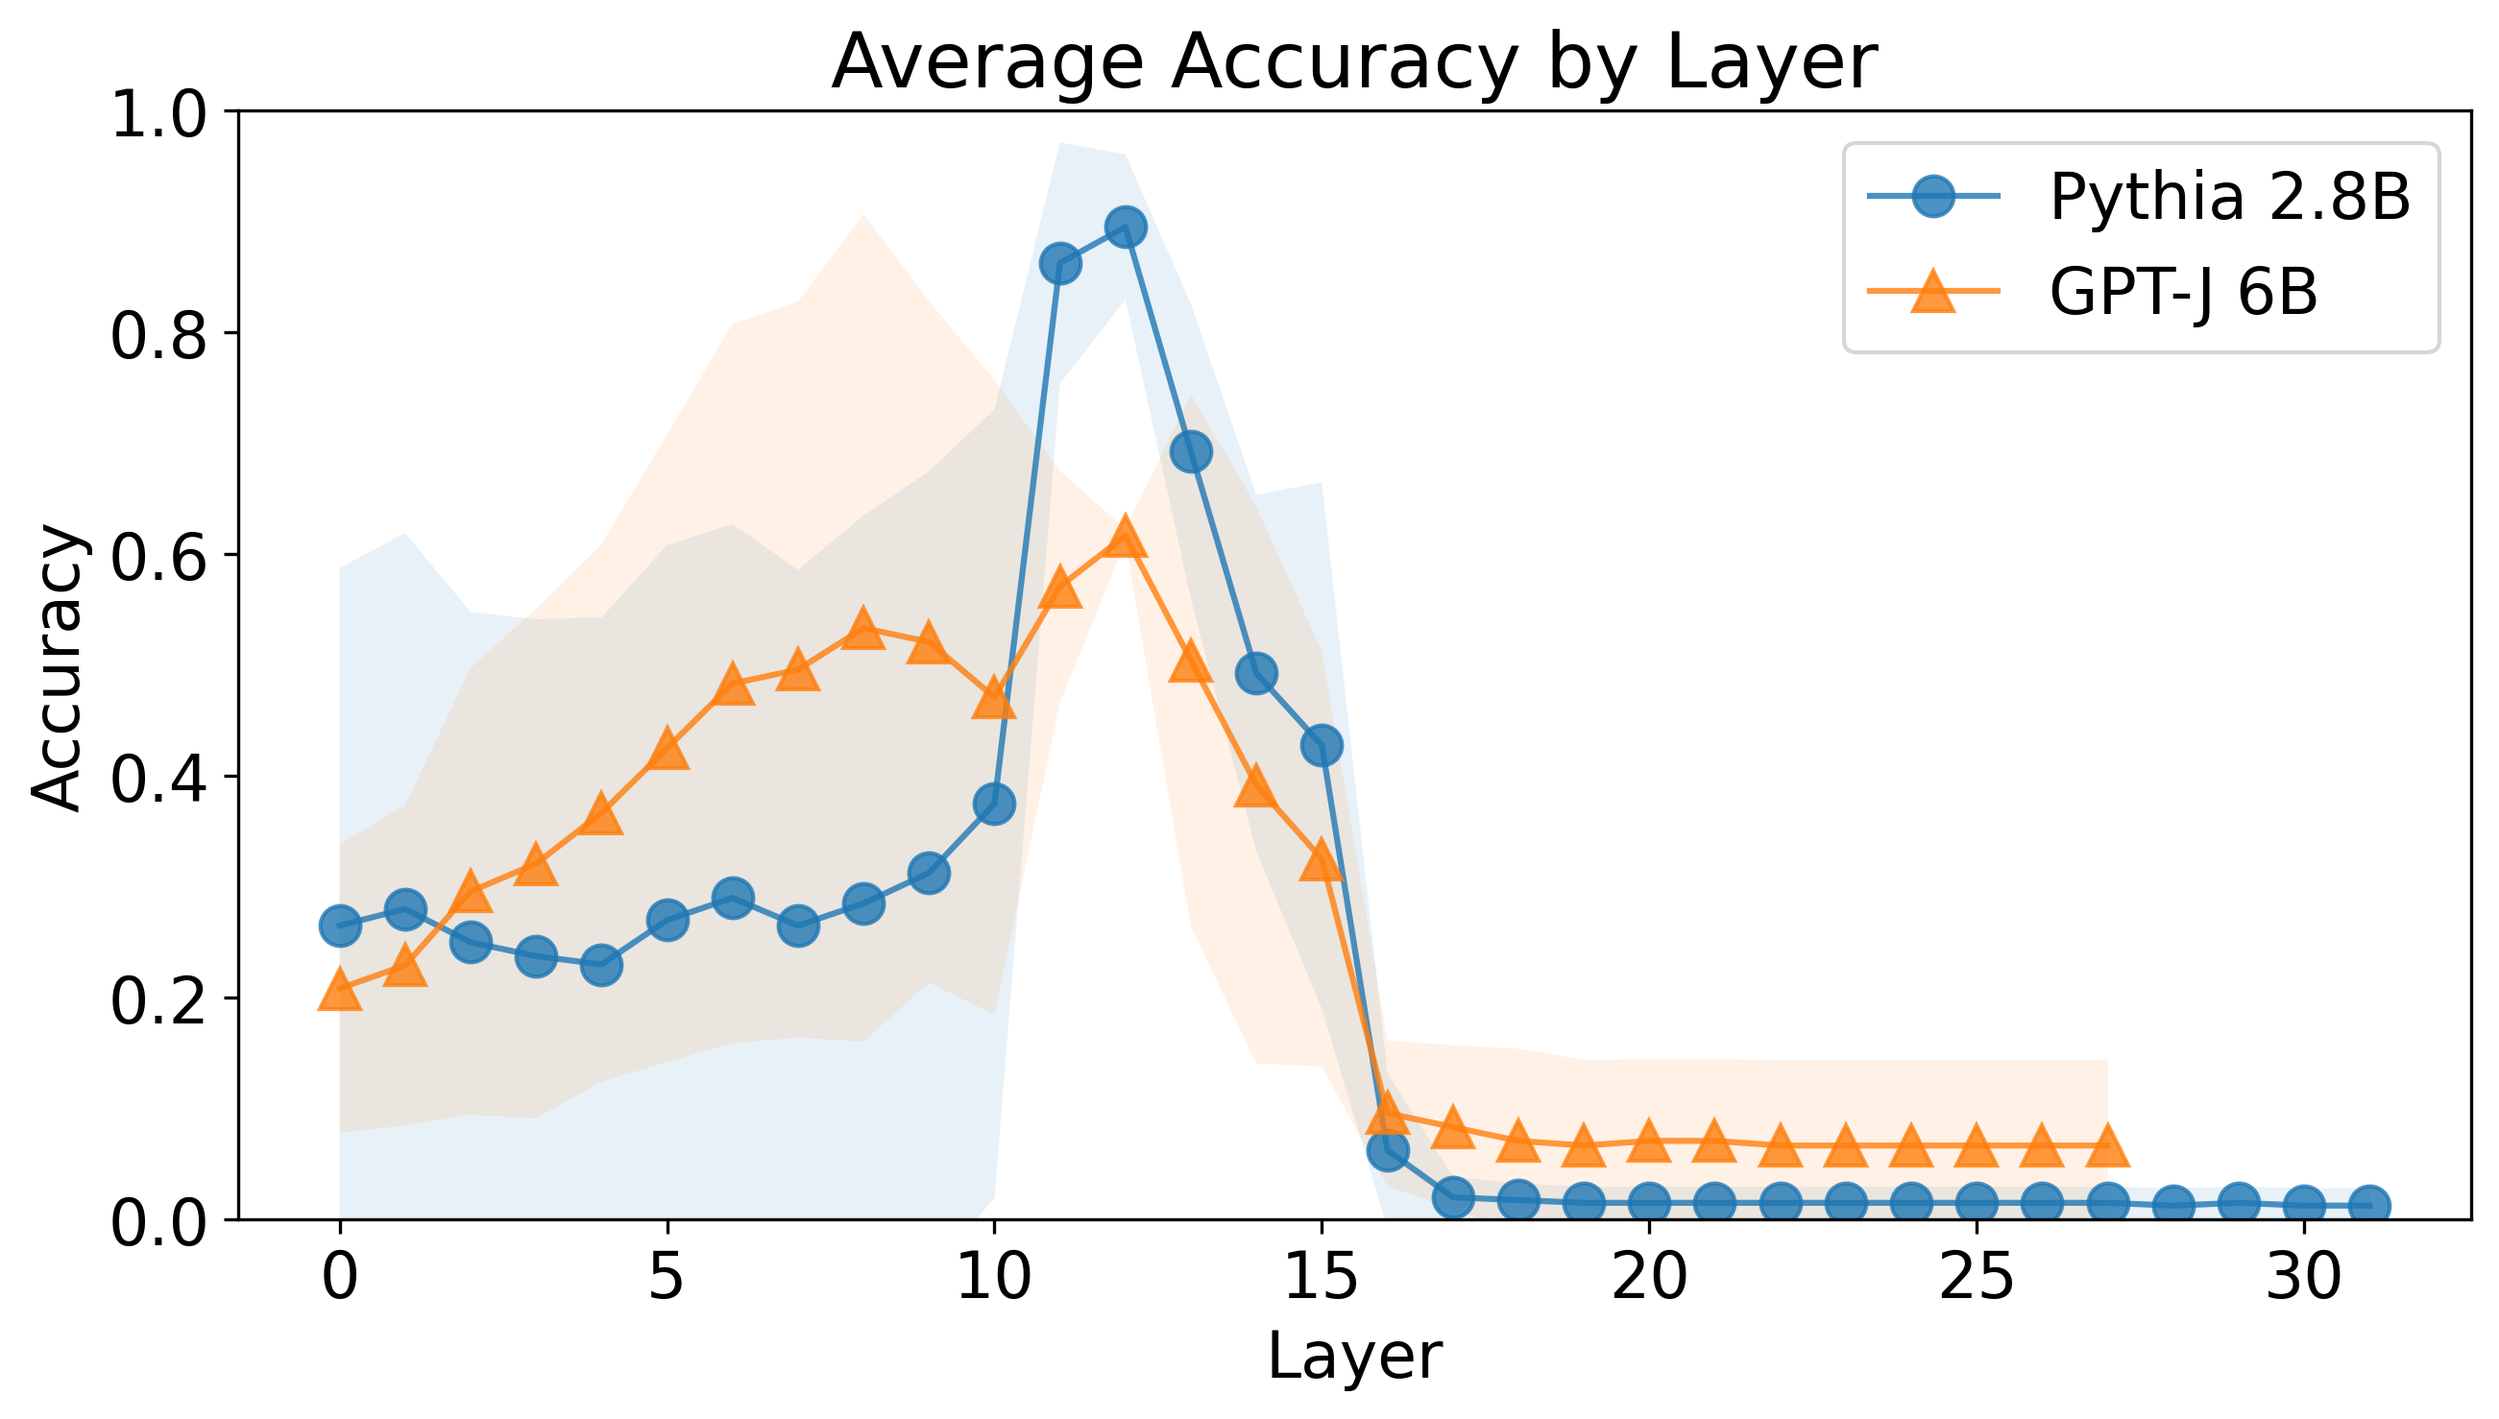
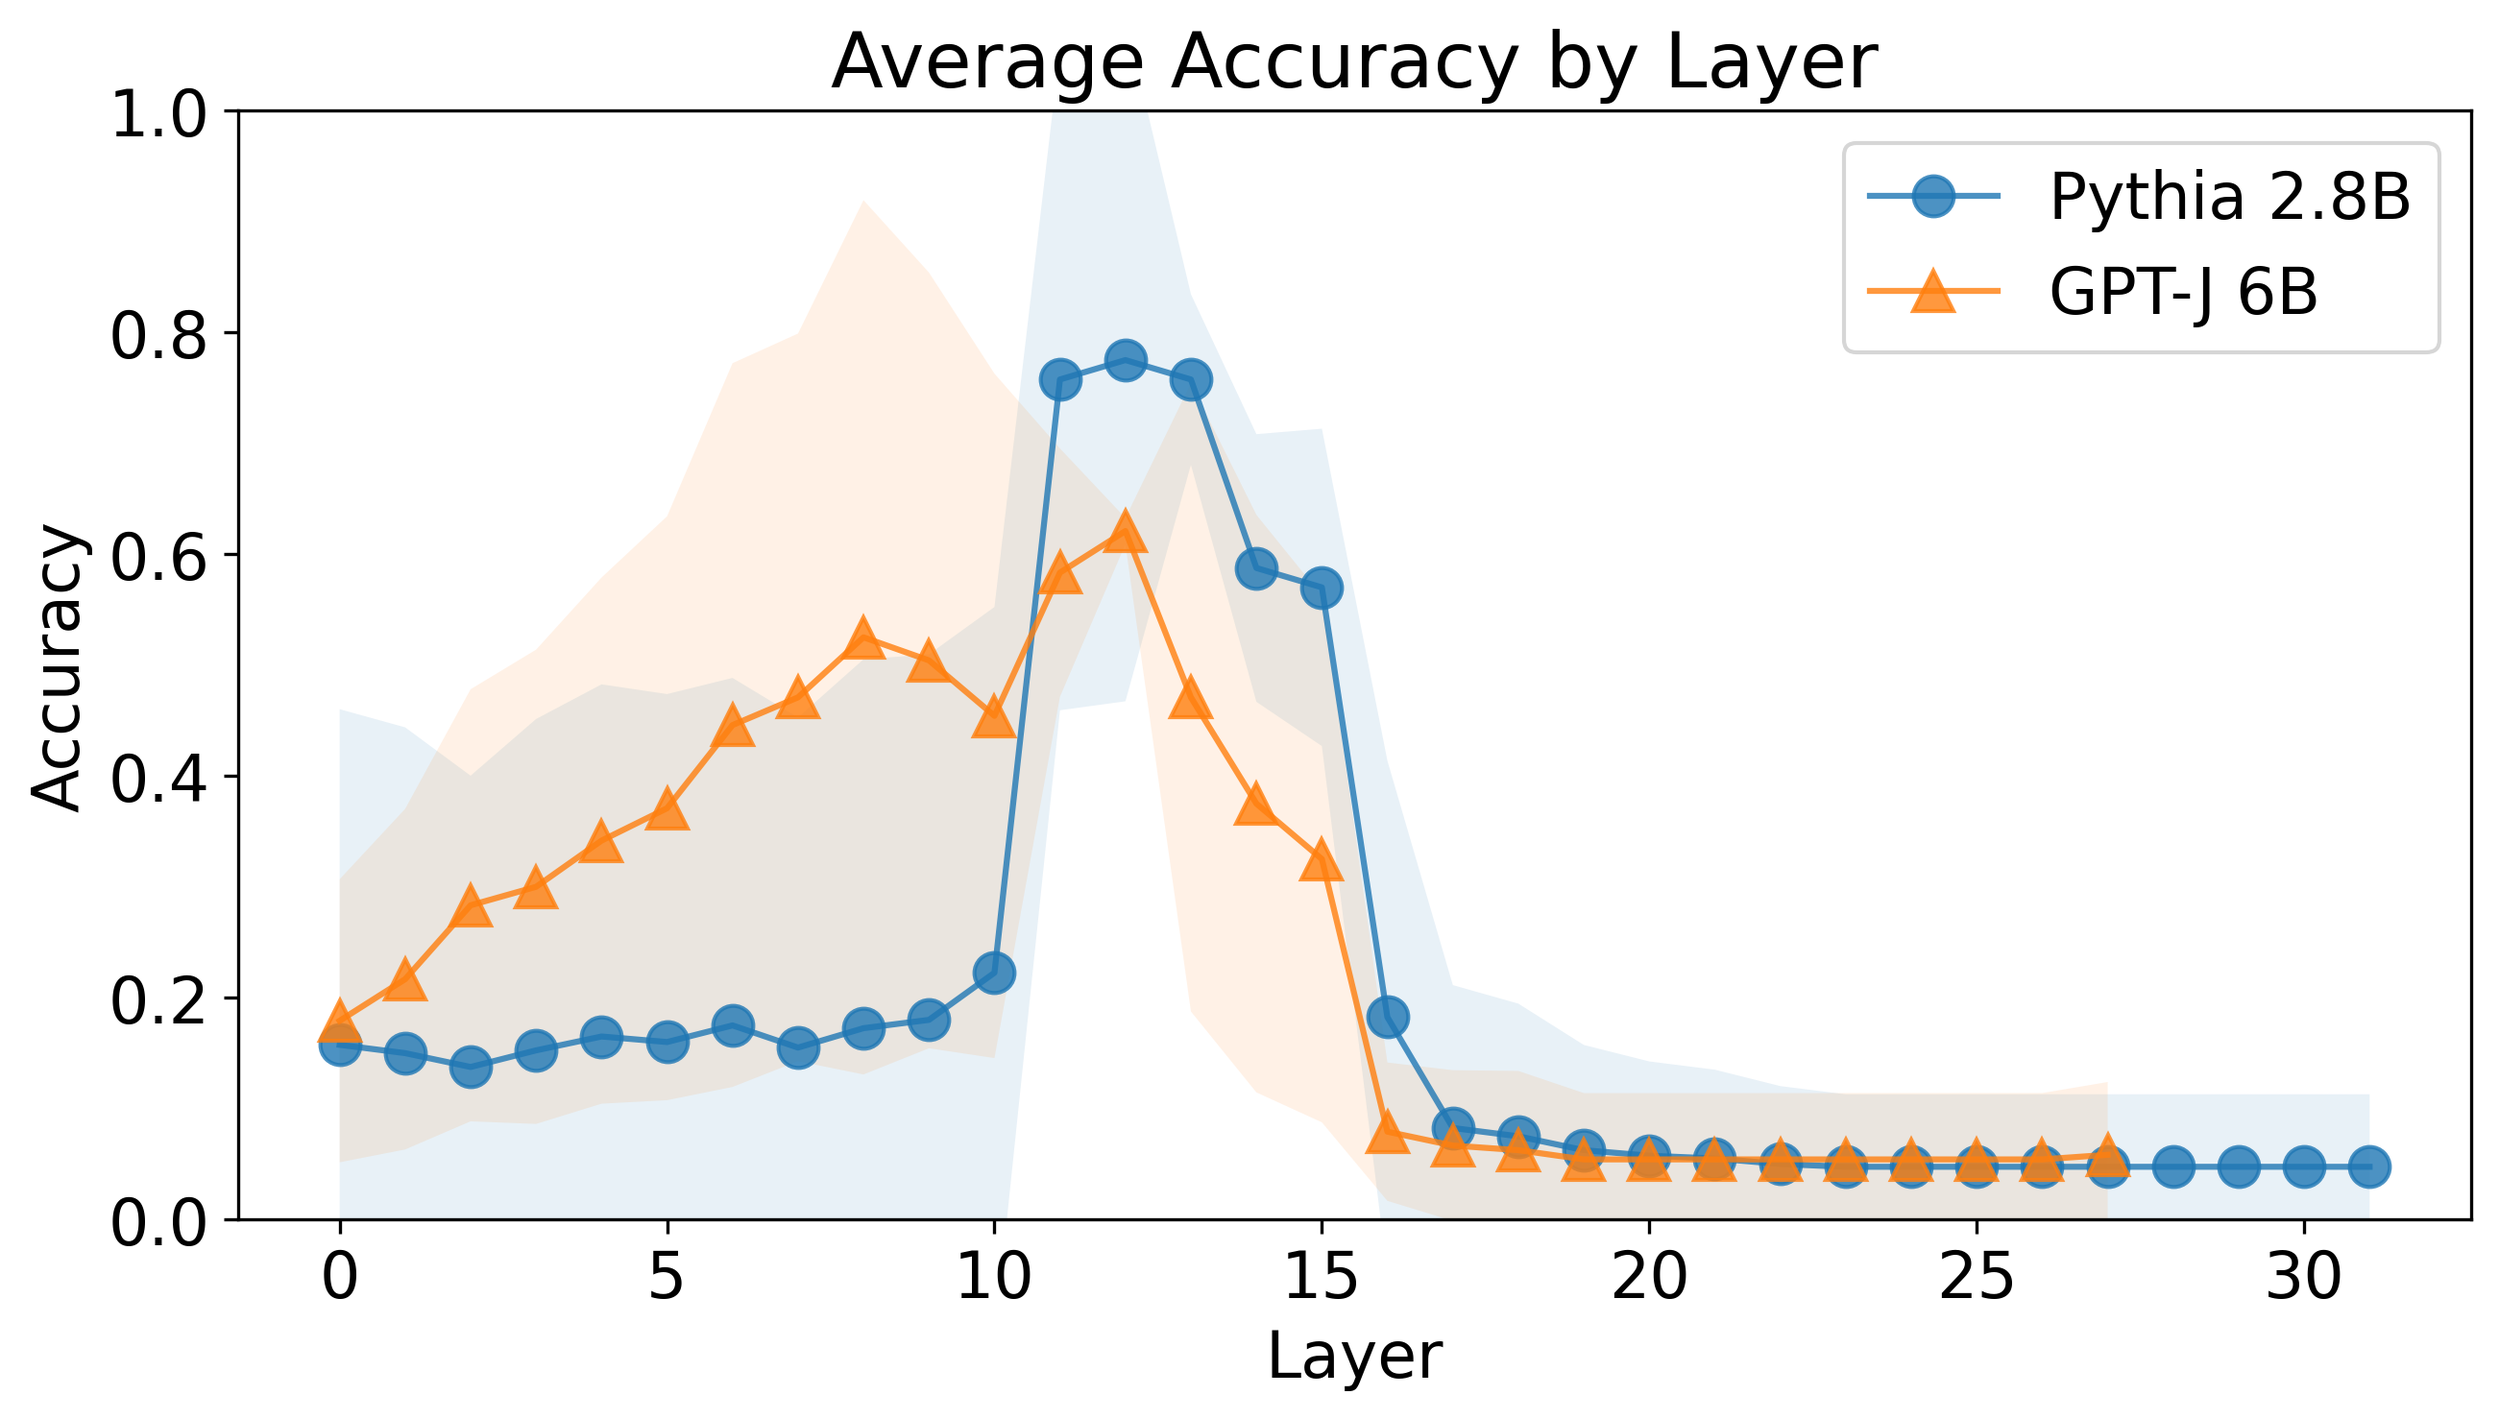
layer-1

diff --git a/outputs/figures/main_experiment_results_table.tex b/outputs/figures/main_experiment_results_table.tex
@@ -19,49 +19,49 @@ Model & Task type & Task name &  &  &  &  &  &  &  &  &  &  &  &  &  \\
 \midrule
     \endhead
     
-\multirow[t]{18}{*}{GPT-J 6B} & \multirow[t]{6}{*}{Algorithmic} & List first & 0.23 & 0.90 & 0.80 & 0.78 & 0.70 & 0.74 & 0.75 & 0.76 & 0.76 & 0.75 & 0.80 & 0.78 & 0.71 \\
- &  & List last & 0.31 & 0.93 & 0.47 & 0.44 & 0.40 & 0.44 & 0.39 & 0.50 & 0.47 & 0.45 & 0.47 & 0.39 & 0.47 \\
- &  & Next letter & 0.19 & 0.84 & 0.94 & 0.91 & 0.95 & 0.93 & 0.94 & 0.95 & 0.93 & 0.95 & 0.89 & 0.95 & 0.96 \\
- &  & Prev letter & 0.08 & 0.14 & 0.21 & 0.19 & 0.20 & 0.24 & 0.17 & 0.23 & 0.20 & 0.15 & 0.21 & 0.24 & 0.24 \\
- &  & To lower & 0.00 & 1.00 & 0.06 & 0.12 & 0.09 & 0.14 & 0.09 & 0.15 & 0.10 & 0.05 & 0.09 & 0.09 & 0.06 \\
- &  & To upper & 0.00 & 1.00 & 0.53 & 0.50 & 0.47 & 0.46 & 0.51 & 0.45 & 0.46 & 0.38 & 0.44 & 0.51 & 0.44 \\
+\multirow[t]{18}{*}{GPT-J 6B} & \multirow[t]{6}{*}{Algorithmic} & List first & 0.23 & 0.90 & 0.80 & 0.69 & 0.66 & 0.59 & 0.60 & 0.65 & 0.68 & 0.64 & 0.72 & 0.69 & 0.65 \\
+ &  & List last & 0.31 & 0.93 & 0.47 & 0.54 & 0.46 & 0.47 & 0.49 & 0.45 & 0.50 & 0.46 & 0.46 & 0.49 & 0.45 \\
+ &  & Next letter & 0.24 & 0.86 & 0.96 & 0.89 & 0.82 & 0.84 & 0.89 & 0.85 & 0.84 & 0.86 & 0.82 & 0.85 & 0.86 \\
+ &  & Prev letter & 0.14 & 0.14 & 0.25 & 0.21 & 0.19 & 0.17 & 0.17 & 0.16 & 0.19 & 0.19 & 0.17 & 0.26 & 0.20 \\
+ &  & To lower & 0.00 & 1.00 & 0.09 & 0.14 & 0.14 & 0.14 & 0.15 & 0.10 & 0.10 & 0.19 & 0.12 & 0.15 & 0.12 \\
+ &  & To upper & 0.00 & 1.00 & 0.50 & 0.28 & 0.34 & 0.31 & 0.40 & 0.30 & 0.36 & 0.34 & 0.26 & 0.30 & 0.40 \\
 \cline{2-16}
- & \multirow[t]{4}{*}{Knowledge} & Country capital & 0.13 & 0.56 & 0.46 & 0.44 & 0.36 & 0.41 & 0.49 & 0.45 & 0.44 & 0.35 & 0.42 & 0.46 & 0.49 \\
- &  & Location continent & 0.03 & 0.74 & 0.45 & 0.49 & 0.42 & 0.51 & 0.35 & 0.47 & 0.46 & 0.53 & 0.50 & 0.39 & 0.38 \\
- &  & Location religion & 0.14 & 0.81 & 0.68 & 0.68 & 0.59 & 0.72 & 0.61 & 0.64 & 0.62 & 0.60 & 0.66 & 0.57 & 0.66 \\
- &  & Person language & 0.02 & 0.70 & 0.71 & 0.71 & 0.64 & 0.70 & 0.66 & 0.64 & 0.68 & 0.66 & 0.71 & 0.70 & 0.71 \\
+ & \multirow[t]{4}{*}{Knowledge} & Country capital & 0.14 & 0.62 & 0.47 & 0.45 & 0.36 & 0.40 & 0.28 & 0.39 & 0.39 & 0.46 & 0.31 & 0.44 & 0.38 \\
+ &  & Location continent & 0.00 & 0.62 & 0.42 & 0.45 & 0.54 & 0.40 & 0.53 & 0.55 & 0.49 & 0.47 & 0.41 & 0.50 & 0.51 \\
+ &  & Location religion & 0.10 & 0.72 & 0.59 & 0.66 & 0.65 & 0.76 & 0.56 & 0.69 & 0.79 & 0.68 & 0.71 & 0.79 & 0.66 \\
+ &  & Person language & 0.01 & 0.88 & 0.76 & 0.71 & 0.82 & 0.75 & 0.71 & 0.74 & 0.74 & 0.79 & 0.76 & 0.81 & 0.76 \\
 \cline{2-16}
- & \multirow[t]{4}{*}{Linguistic} & Antonyms & 0.39 & 0.75 & 0.66 & 0.66 & 0.68 & 0.68 & 0.69 & 0.64 & 0.66 & 0.69 & 0.62 & 0.65 & 0.65 \\
- &  & Plural singular & 0.09 & 0.80 & 0.74 & 0.71 & 0.66 & 0.71 & 0.74 & 0.71 & 0.70 & 0.65 & 0.74 & 0.75 & 0.72 \\
- &  & Present simple gerund & 0.00 & 0.86 & 0.64 & 0.66 & 0.66 & 0.64 & 0.60 & 0.64 & 0.61 & 0.66 & 0.68 & 0.64 & 0.66 \\
- &  & Present simple past simple & 0.01 & 0.81 & 0.54 & 0.59 & 0.57 & 0.62 & 0.57 & 0.59 & 0.57 & 0.62 & 0.66 & 0.56 & 0.57 \\
+ & \multirow[t]{4}{*}{Linguistic} & Antonyms & 0.41 & 0.69 & 0.59 & 0.62 & 0.65 & 0.57 & 0.61 & 0.61 & 0.59 & 0.59 & 0.64 & 0.57 & 0.60 \\
+ &  & Plural singular & 0.07 & 0.82 & 0.79 & 0.78 & 0.65 & 0.65 & 0.69 & 0.69 & 0.69 & 0.66 & 0.70 & 0.66 & 0.70 \\
+ &  & Present simple gerund & 0.00 & 0.89 & 0.70 & 0.66 & 0.71 & 0.64 & 0.61 & 0.64 & 0.64 & 0.64 & 0.68 & 0.75 & 0.54 \\
+ &  & Present simple past simple & 0.00 & 0.91 & 0.68 & 0.59 & 0.60 & 0.54 & 0.55 & 0.56 & 0.56 & 0.54 & 0.57 & 0.62 & 0.53 \\
 \cline{2-16}
- & \multirow[t]{4}{*}{Translation} & En es & 0.22 & 0.34 & 0.33 & 0.28 & 0.26 & 0.29 & 0.34 & 0.31 & 0.34 & 0.29 & 0.29 & 0.31 & 0.33 \\
- &  & En fr & 0.18 & 0.41 & 0.39 & 0.39 & 0.39 & 0.35 & 0.36 & 0.39 & 0.41 & 0.39 & 0.39 & 0.36 & 0.38 \\
- &  & Es en & 0.06 & 0.84 & 0.64 & 0.64 & 0.74 & 0.62 & 0.62 & 0.72 & 0.64 & 0.75 & 0.64 & 0.70 & 0.72 \\
- &  & Fr en & 0.08 & 0.70 & 0.50 & 0.47 & 0.50 & 0.50 & 0.47 & 0.47 & 0.47 & 0.47 & 0.53 & 0.45 & 0.38 \\
+ & \multirow[t]{4}{*}{Translation} & En es & 0.19 & 0.44 & 0.39 & 0.41 & 0.41 & 0.41 & 0.41 & 0.40 & 0.42 & 0.42 & 0.38 & 0.40 & 0.39 \\
+ &  & En fr & 0.12 & 0.53 & 0.44 & 0.46 & 0.40 & 0.47 & 0.45 & 0.42 & 0.41 & 0.45 & 0.45 & 0.40 & 0.42 \\
+ &  & Es en & 0.05 & 0.76 & 0.64 & 0.66 & 0.66 & 0.65 & 0.76 & 0.68 & 0.70 & 0.64 & 0.64 & 0.64 & 0.61 \\
+ &  & Fr en & 0.13 & 0.68 & 0.50 & 0.45 & 0.49 & 0.54 & 0.54 & 0.50 & 0.57 & 0.49 & 0.62 & 0.55 & 0.42 \\
 \cline{1-16} \cline{2-16}
-\multirow[t]{18}{*}{Pythia 2.8B} & \multirow[t]{6}{*}{Algorithmic} & List first & 0.65 & 0.95 & 0.95 & 0.93 & 0.86 & 0.94 & 0.94 & 0.96 & 0.94 & 0.94 & 0.91 & 0.99 & 0.97 \\
- &  & List last & 0.02 & 0.95 & 0.91 & 0.90 & 0.93 & 0.94 & 0.89 & 0.96 & 0.93 & 0.94 & 0.93 & 0.89 & 0.91 \\
- &  & Next letter & 0.48 & 0.88 & 0.65 & 0.70 & 0.71 & 0.64 & 0.66 & 0.60 & 0.65 & 0.70 & 0.62 & 0.66 & 0.65 \\
- &  & Prev letter & 0.05 & 0.10 & 0.11 & 0.09 & 0.11 & 0.07 & 0.07 & 0.11 & 0.11 & 0.09 & 0.11 & 0.07 & 0.10 \\
- &  & To lower & 0.00 & 1.00 & 0.91 & 0.90 & 0.94 & 0.93 & 0.93 & 0.90 & 0.89 & 0.89 & 0.93 & 0.90 & 0.93 \\
- &  & To upper & 0.00 & 1.00 & 0.90 & 0.90 & 0.93 & 0.96 & 0.90 & 0.90 & 0.91 & 0.90 & 0.94 & 0.89 & 0.94 \\
+\multirow[t]{18}{*}{Pythia 2.8B} & \multirow[t]{6}{*}{Algorithmic} & List first & 0.65 & 0.95 & 0.95 & 0.84 & 0.84 & 0.76 & 0.88 & 0.91 & 0.90 & 0.88 & 0.90 & 0.81 & 0.89 \\
+ &  & List last & 0.02 & 0.95 & 0.91 & 0.66 & 0.60 & 0.71 & 0.66 & 0.55 & 0.64 & 0.54 & 0.47 & 0.57 & 0.57 \\
+ &  & Next letter & 0.50 & 0.88 & 0.69 & 0.44 & 0.46 & 0.47 & 0.44 & 0.47 & 0.54 & 0.42 & 0.44 & 0.46 & 0.47 \\
+ &  & Prev letter & 0.03 & 0.16 & 0.14 & 0.10 & 0.11 & 0.12 & 0.09 & 0.12 & 0.10 & 0.15 & 0.14 & 0.11 & 0.12 \\
+ &  & To lower & 0.00 & 1.00 & 0.93 & 0.95 & 0.90 & 0.89 & 0.91 & 0.91 & 0.90 & 0.95 & 0.90 & 0.95 & 0.89 \\
+ &  & To upper & 0.00 & 1.00 & 0.95 & 0.94 & 0.93 & 0.91 & 0.88 & 0.93 & 0.91 & 0.94 & 0.93 & 0.93 & 0.95 \\
 \cline{2-16}
- & \multirow[t]{4}{*}{Knowledge} & Country capital & 0.10 & 0.57 & 0.51 & 0.45 & 0.50 & 0.57 & 0.51 & 0.53 & 0.42 & 0.51 & 0.53 & 0.50 & 0.46 \\
- &  & Location continent & 0.01 & 0.71 & 0.61 & 0.62 & 0.60 & 0.61 & 0.61 & 0.54 & 0.55 & 0.61 & 0.59 & 0.50 & 0.57 \\
- &  & Location religion & 0.08 & 0.71 & 0.54 & 0.55 & 0.50 & 0.54 & 0.35 & 0.54 & 0.45 & 0.54 & 0.54 & 0.46 & 0.49 \\
- &  & Person language & 0.02 & 0.72 & 0.62 & 0.66 & 0.61 & 0.61 & 0.66 & 0.65 & 0.64 & 0.64 & 0.60 & 0.70 & 0.71 \\
+ & \multirow[t]{4}{*}{Knowledge} & Country capital & 0.15 & 0.51 & 0.54 & 0.50 & 0.49 & 0.40 & 0.45 & 0.50 & 0.46 & 0.50 & 0.40 & 0.47 & 0.46 \\
+ &  & Location continent & 0.00 & 0.66 & 0.54 & 0.54 & 0.62 & 0.54 & 0.56 & 0.61 & 0.55 & 0.60 & 0.54 & 0.57 & 0.55 \\
+ &  & Location religion & 0.13 & 0.68 & 0.64 & 0.68 & 0.69 & 0.72 & 0.64 & 0.66 & 0.71 & 0.68 & 0.65 & 0.75 & 0.64 \\
+ &  & Person language & 0.01 & 0.80 & 0.78 & 0.78 & 0.78 & 0.72 & 0.72 & 0.75 & 0.72 & 0.75 & 0.72 & 0.74 & 0.76 \\
 \cline{2-16}
- & \multirow[t]{4}{*}{Linguistic} & Antonyms & 0.46 & 0.75 & 0.50 & 0.46 & 0.44 & 0.50 & 0.50 & 0.47 & 0.47 & 0.49 & 0.51 & 0.51 & 0.49 \\
- &  & Plural singular & 0.08 & 0.80 & 0.71 & 0.74 & 0.76 & 0.70 & 0.68 & 0.72 & 0.64 & 0.68 & 0.69 & 0.74 & 0.68 \\
- &  & Present simple gerund & 0.00 & 0.89 & 0.66 & 0.72 & 0.61 & 0.64 & 0.66 & 0.64 & 0.68 & 0.64 & 0.62 & 0.69 & 0.62 \\
- &  & Present simple past simple & 0.01 & 0.84 & 0.68 & 0.61 & 0.64 & 0.71 & 0.61 & 0.71 & 0.69 & 0.69 & 0.64 & 0.65 & 0.68 \\
+ & \multirow[t]{4}{*}{Linguistic} & Antonyms & 0.43 & 0.71 & 0.60 & 0.55 & 0.56 & 0.55 & 0.56 & 0.54 & 0.61 & 0.53 & 0.57 & 0.59 & 0.56 \\
+ &  & Plural singular & 0.10 & 0.59 & 0.53 & 0.56 & 0.56 & 0.59 & 0.62 & 0.56 & 0.61 & 0.55 & 0.65 & 0.65 & 0.55 \\
+ &  & Present simple gerund & 0.00 & 0.84 & 0.64 & 0.61 & 0.65 & 0.62 & 0.61 & 0.51 & 0.55 & 0.53 & 0.64 & 0.51 & 0.60 \\
+ &  & Present simple past simple & 0.01 & 0.85 & 0.70 & 0.60 & 0.66 & 0.65 & 0.69 & 0.65 & 0.69 & 0.60 & 0.64 & 0.71 & 0.62 \\
 \cline{2-16}
- & \multirow[t]{4}{*}{Translation} & En es & 0.10 & 0.42 & 0.28 & 0.29 & 0.25 & 0.28 & 0.28 & 0.28 & 0.28 & 0.29 & 0.30 & 0.30 & 0.26 \\
- &  & En fr & 0.14 & 0.46 & 0.35 & 0.34 & 0.36 & 0.34 & 0.36 & 0.36 & 0.34 & 0.38 & 0.33 & 0.33 & 0.36 \\
- &  & Es en & 0.11 & 0.81 & 0.62 & 0.57 & 0.59 & 0.57 & 0.56 & 0.64 & 0.66 & 0.61 & 0.51 & 0.68 & 0.60 \\
- &  & Fr en & 0.14 & 0.69 & 0.51 & 0.50 & 0.51 & 0.54 & 0.44 & 0.49 & 0.50 & 0.49 & 0.41 & 0.50 & 0.47 \\
+ & \multirow[t]{4}{*}{Translation} & En es & 0.11 & 0.53 & 0.20 & 0.20 & 0.21 & 0.21 & 0.24 & 0.21 & 0.17 & 0.21 & 0.21 & 0.19 & 0.20 \\
+ &  & En fr & 0.12 & 0.49 & 0.39 & 0.40 & 0.40 & 0.38 & 0.39 & 0.38 & 0.40 & 0.40 & 0.39 & 0.40 & 0.40 \\
+ &  & Es en & 0.12 & 0.79 & 0.49 & 0.51 & 0.53 & 0.56 & 0.57 & 0.59 & 0.56 & 0.49 & 0.50 & 0.53 & 0.46 \\
+ &  & Fr en & 0.13 & 0.71 & 0.55 & 0.56 & 0.59 & 0.65 & 0.59 & 0.57 & 0.60 & 0.61 & 0.54 & 0.60 & 0.59 \\
 \cline{1-16} \cline{2-16}
 \bottomrule
 \end{longtable}

diff --git a/outputs/figures/top_tokens_table.tex b/outputs/figures/top_tokens_table.tex
@@ -2,15 +2,15 @@
 \toprule
  &  & 0 \\
 \midrule
-\multirow[t]{4}{*}{pythia_2.8B} & algorithmic_prev_letter & aeda, thous, OOST, CURI, perty, ovember, preced, PARTICULAR, IRST, prehens, preceded, satell, foo, advertis, CLUDING, cano, previous, enburg, gether, veloc \\
- & translation_fr_en & OOST, CURI, PLIED, CHANT, orect, ovember, HECK, qc, REEK, RAF, BASIS, Lemmon, rapeutics, fileID, CLUDING, aturday, YING, OLOR, PARTICULAR, IRST \\
- & linguistic_present_simple_gerund & PLIED, RAF, Accessor, YING, fileID, OOST, CLUDING, CURI, CHANT, ovember, unnumbered, perty, completing, rv, satell, rapeutics, GAN, rans, quo, HECK \\
- & knowledge_country_capital & thous, answ, HECK, CURI, OOST, RAF, advertis, uncert, orche, establ, laug, satell, REEK, CHANT, acknow, strugg, ITERATION, behav, clust, tomat \\
+\multirow[t]{4}{*}{pythia_2.8B} & algorithmic_prev_letter & aeda, thous, OOST, preced, CURI, ovember, perty, PARTICULAR, IRST, prehens, preceded, CLUDING, foo, satell, advertis, cano, gether, estern, enburg, mint \\
+ & translation_fr_en & OOST, CURI, PLIED, orect, HECK, CHANT, ovember, RAF, Lemmon, BASIS, aturday, REEK, CLUDING, rapeutics, empre, PARTICULAR, YING, fileID, IRST, qc \\
+ & linguistic_present_simple_gerund & PLIED, RAF, OOST, YING, fileID, Accessor, ovember, CHANT, CURI, CLUDING, perty, unnumbered, quo, satell, rv, rapeutics, OMEM, IBUT, HECK, aturday \\
+ & knowledge_country_capital & thous, answ, HECK, CURI, OOST, RAF, advertis, uncert, orche, establ, laug, REEK, acknow, CHANT, satell, strugg, tomat, clust, fileID, POSE \\
 \cline{1-3}
-\multirow[t]{4}{*}{gpt-j_6B} & algorithmic_prev_letter & name, s, v, c, b, g, n, ro, i, a, test, m, t, d, ma, active, is, id, es, open \\
- & translation_fr_en & name, other, the, s, car, true, b, F, social, active, is, cancer, ms, n, related, public, form, head, Q, whole \\
- & linguistic_present_simple_gerund & getting, working, playing, storing, being, the, making, using, doing, moving, shooting, driving, feeding, c, selling, talking, teaching, active, s, writing \\
- & knowledge_country_capital & London, West, South, Paris, New, East, North, Germany, Berlin, Mexico, Northern, Philadelphia, City, Tokyo, United, Chicago, The, Jerusalem, San, s \\
+\multirow[t]{4}{*}{gpt-j_6B} & algorithmic_prev_letter & name, v, s, c, b, g, n, i, ro, test, m, t, a, d, open, active, is, next, ma, id \\
+ & translation_fr_en & name, other, s, the, car, true, social, active, b, n, F, is, cancer, head, public, related, ms, Q, form, d \\
+ & linguistic_present_simple_gerund & getting, working, storing, playing, being, moving, using, making, feeding, the, driving, shooting, s, active, selling, writing, teaching, d, c, changing \\
+ & knowledge_country_capital & London, West, South, Paris, East, Germany, New, Berlin, North, Mexico, Tokyo, Northern, Philadelphia, United, Chicago, City, Jerusalem, San, The, Eastern \\
 \cline{1-3}
 \bottomrule
 \end{tabular}

diff --git a/core/task_vectors.py b/core/task_vectors.py
@@ -96,14 +96,14 @@ def stack_helper(
     ]
     new_task_hiddens = get_task_hiddens(model, tokenizer, task, new_test_datasets, multi_context=multi_context,
                                         moderate=True, prev_hiddens=task_hiddens,
-                                        prev_intermediate_layer=best_intermediate_layer) # -1
+                                        prev_intermediate_layer=best_intermediate_layer - 1) # -1
     stack_predictions = modulated_generate(
         model,
         tokenizer,
         task,
         test_datasets,
         task_hiddens=new_task_hiddens,
-        intermediate_layer=best_intermediate_layer+1,
+        intermediate_layer=best_intermediate_layer,
         #      include_train=True
     )
     return new_task_hiddens, stack_predictions

diff --git a/scripts/figures/main.py b/scripts/figures/main.py
@@ -309,5 +309,5 @@ def create_all_figures(experiment_id: str):
 
 
 if __name__ == "__main__":
-    experiment_id = "19"
+    experiment_id = "20"
     create_all_figures(experiment_id)
